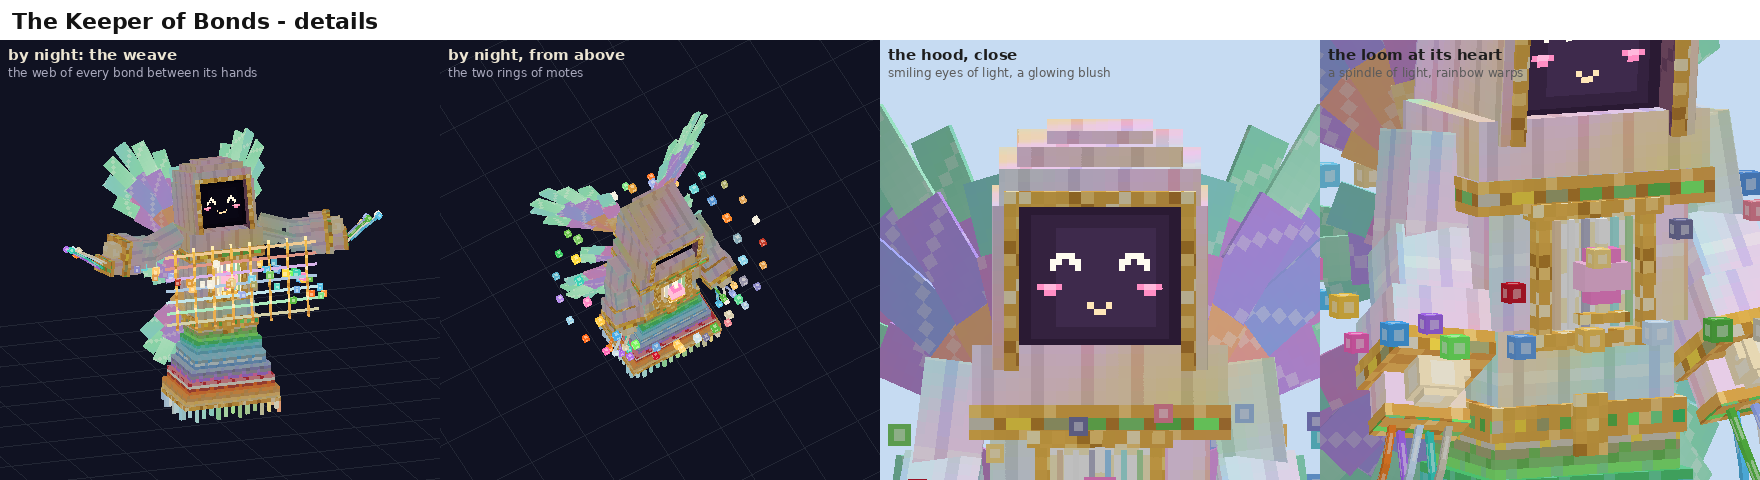
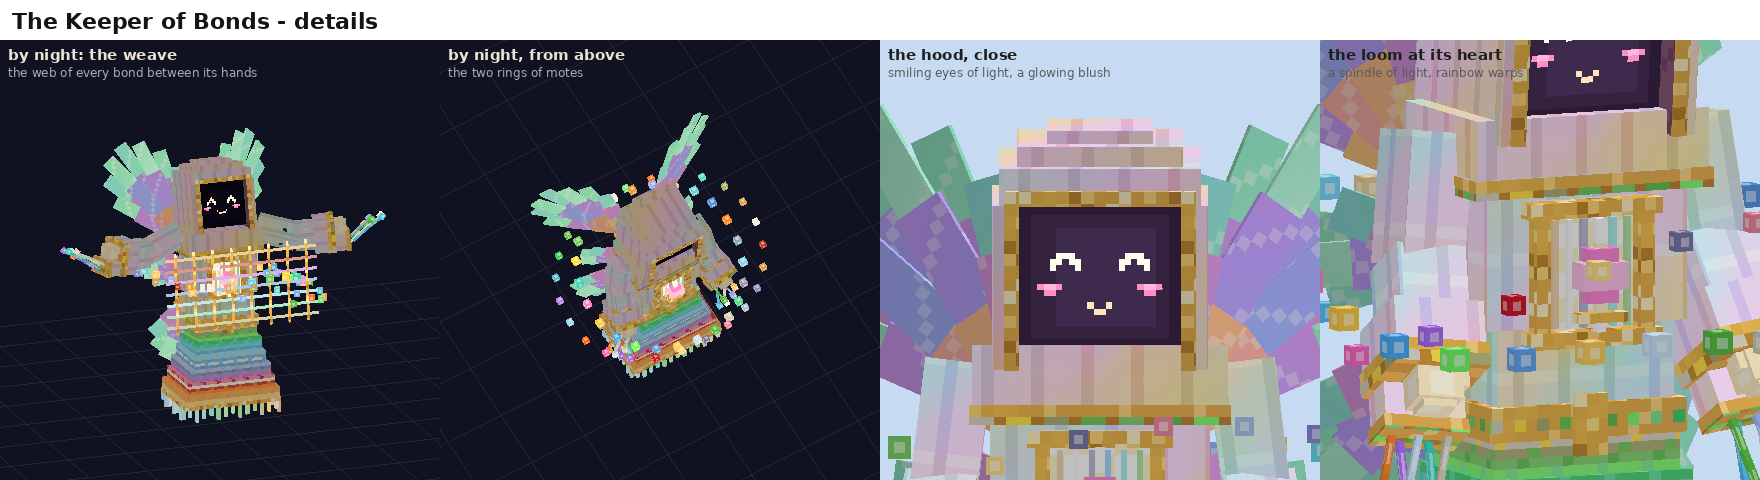
WIP (agent): Keeper v3 in progress
Claude-Session: https://claude.ai/code/session_01XWL2YCZPbHFbZZugTCggqD

diff --git a/bm_build/keeper_art.py b/bm_build/keeper_art.py
@@ -549,7 +549,7 @@ def models():
             bx((-0.7, 10.0, -3.3), (0.7, 12.5, -3.07), 'kb_gold', pv, light=L_BAND),                                                          # its knot
             bx((-4.4, 15.2, -2.85), (4.4, 21.4, 2.85), 'kb_robe', pv, faces=_faces_but('down', 'up'), light=L_CLOTH, shift=(0.4, 0.5)),      # the chest
             bx((-2.45, 14.4, -2.95), (2.45, 20.4, -2.87), 'kb_light', pv, faces=('north',), light=L_CORE),                                    # the heart's glow
-            bx((-5.25, 20.0, -3.6), (5.25, 21.4, 3.6), 'kb_brd', pv, faces=_faces_but('up'), light=L_BAND),                                # the mantle's border
+            bx((-5.25, 20.6, -3.6), (5.25, 21.4, 3.6), 'kb_brd', pv, faces=_faces_but('up'), light=L_BAND),                                # the mantle's border
             bx((-5.1, 21.4, -3.45), (5.1, 23.8, 3.45), 'kb_hood', pv, ftex={'down': 'kb_lining'}, light=L_CLOTH, shift=(0.2, 0.6))]          # the mantle
     part('kb_body', body)
 
@@ -619,7 +619,7 @@ def models():
         ap, fp, tp = PIVOT[f'arm{s}'], PIVOT[f'fore{s}'], PIVOT[f'thread{s}']
         cx = ARM_X
         part(f'kb_arm{s}', [B(sx, cx - 1.35, cx + 1.35, 17.6, 23.0, -1.35, 1.75, 'kb_robe', ap, light=L_CLOTH, shift=(0.3 + 0.2 * sx, 0.4))])
-        fore = [B(sx, cx - 1.45, cx + 1.45, 15.4, 18.2, -1.45, 1.85, 'kb_robe', fp, faces=_faces_but('up'), light=L_CLOTH, shift=(0.6, 0.2)),
+        fore = [B(sx, cx - 1.45, cx + 1.45, 15.4, 17.9, -1.45, 1.85, 'kb_robe', fp, faces=_faces_but('up'), light=L_CLOTH, shift=(0.6, 0.2)),
                 B(sx, cx - 1.9, cx + 1.9, 13.6, 15.4, -1.9, 2.3, 'kb_robe', fp, faces=_faces_but('up'), ftex={'down': 'kb_inner'}, light=L_CLOTH, shift=(0.2, 0.7)),
                 B(sx, cx - 2.0, cx + 2.0, 12.6, 13.6, -2.0, 2.4, 'kb_brd', fp, ftex={'down': 'kb_inner', 'up': 'kb_gold'}, light=L_BAND),  # the cuff
                 B(sx, cx - 1.7, cx + 1.7, 11.0, 12.6, 0.45, 2.3, 'kb_robe', fp, faces=_faces_but('up'), light=L_CLOTH, shift=(0.8, 0.4)),       # the drape
@@ -800,8 +800,8 @@ def wings(raise_=0.0, spread=0.0, fold=0.0, droop=0.0, beat=0.0):
 WING_POSE = {'idle_a': dict(), 'idle_b': dict(beat=6, raise_=2), 'idle_c': dict(beat=-6, fold=6),
              'walk_0': dict(beat=4), 'walk_1': dict(beat=10), 'walk_2': dict(beat=4), 'walk_3': dict(beat=-4),
              'run_0': dict(fold=20, beat=4), 'run_1': dict(fold=20, beat=10), 'run_2': dict(fold=20, beat=2), 'run_3': dict(fold=20, beat=-2),
-             'jump': dict(spread=12, fold=-10, beat=6), 'sit_a': dict(fold=-14, spread=-22), 'sit_b': dict(fold=-10, spread=-24, beat=2),
-             'happy': dict(spread=14, fold=-16, beat=2), 'hurt': dict(fold=18, beat=10, spread=-8), 'tired': dict(droop=24, fold=10, spread=-12), 'rise': dict(droop=10, beat=8),
+             'jump': dict(spread=12, fold=-10, beat=6), 'sit_a': dict(fold=-14, spread=-22), 'sit_b': dict(fold=-10, spread=-28, beat=2),
+             'happy': dict(spread=14, fold=-16, beat=2), 'hurt': dict(fold=18, beat=10, spread=-16), 'tired': dict(droop=24, fold=10, spread=-24), 'rise': dict(droop=10, beat=8),
              'weave_up': dict(fold=10, beat=-8), 'weave': dict(spread=16, fold=-8, beat=2), 'weave_hold': dict(spread=14, fold=-10, beat=0),
              'weave_end': dict(beat=-6, fold=6), 'tug_up': dict(fold=10, beat=8), 'tug': dict(fold=-6, beat=-6), 'mend_a': dict(fold=-6),
              'mend': dict(spread=8, fold=-10, beat=4), 'gift': dict(fold=-12, droop=6), 'tend_a': dict(beat=3), 'tend_b': dict(beat=-3),

diff --git a/bm_build/phase254.py b/bm_build/phase254.py
@@ -64,7 +64,7 @@ class Keeper(RP.Cfg):
                tend_a=30, tend_b=30, bow=12, rise=10)
     QUIPS = ['(it hums, and the motes round it turn a little faster)', '"Every one of them is still with you. I can feel the threads."',
              '(it tucks a loose thread back into its sleeve, very carefully)', '"You walk so far. The tapestry keeps getting longer."',
-             '(its kind eyes crinkle up, and it smiles at you)', '"Shall I tell you a secret? Emma\'s thread was the first."']
+             '(its eyes of light crinkle into happy little crescents)', '"Shall I tell you a secret? Emma\'s thread was the first."']
     HELLO = ('(the Keeper glides back to your side, the motes round it settling)', '(a thread of light draws itself out of the air - and the Keeper of Bonds is there, its loom aglow)',
              '(it bows, unravels into a hundred bright threads, and is gone)')
     SIT = ('"Shall we go on? There are always more threads."', '(it kneels on its robe, folds its wings, and weaves a little while it waits)')
@@ -94,7 +94,7 @@ class Keeper(RP.Cfg):
 RP.register(Keeper)
 RF2.setup(Keeper, 'head')
 
-_DOLL = 'A doll of the Keeper of Bonds - a big hooded head with a round, smiling face, a little rainbow robe, and six tiny wings.'
+_DOLL = 'A doll of the Keeper of Bonds - a big hood with two smiling eyes of light and a glowing blush, a little rainbow robe, and six tiny wings.'
 item('doll_keeper', TOTEM, 'Keeper of Bonds Doll', COL, [_DOLL, ('Right-click a block: set it down.', 'blue'), ('Right-click it: it twirls.', 'blue'),
                                                          ('Sneak + punch: pick it up.', 'gray')], model='bm:doll_keeper', stack=16, cat='fun', comps=hold('none'))
 HOLD['doll_keeper'] = 'bm:p141/doll_keeper/use'
